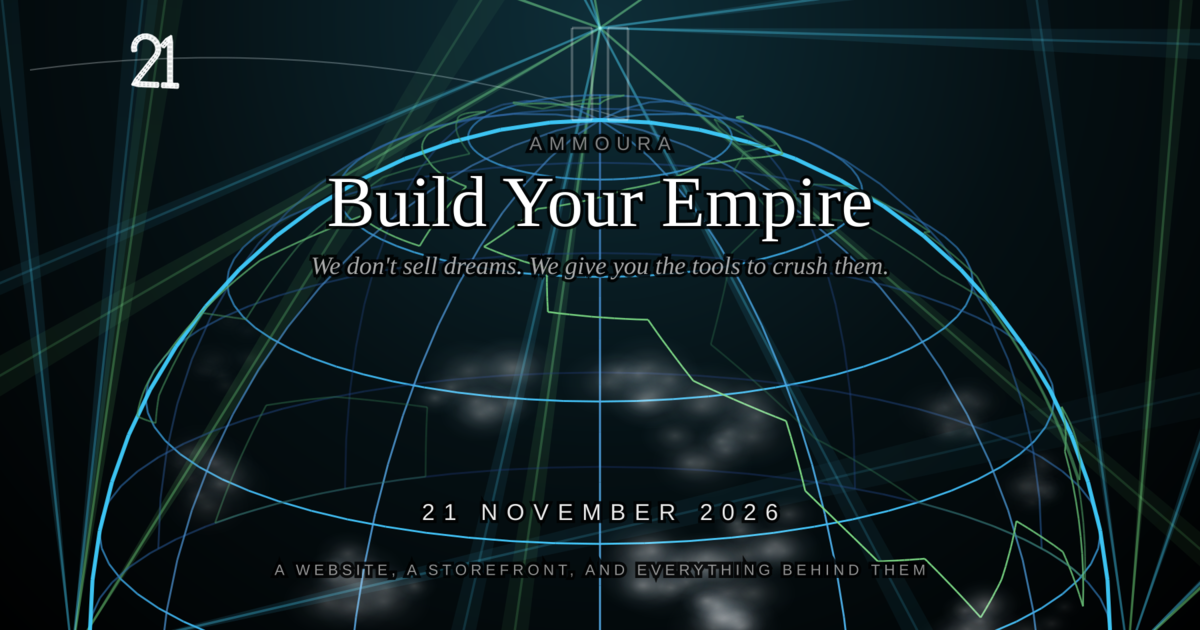
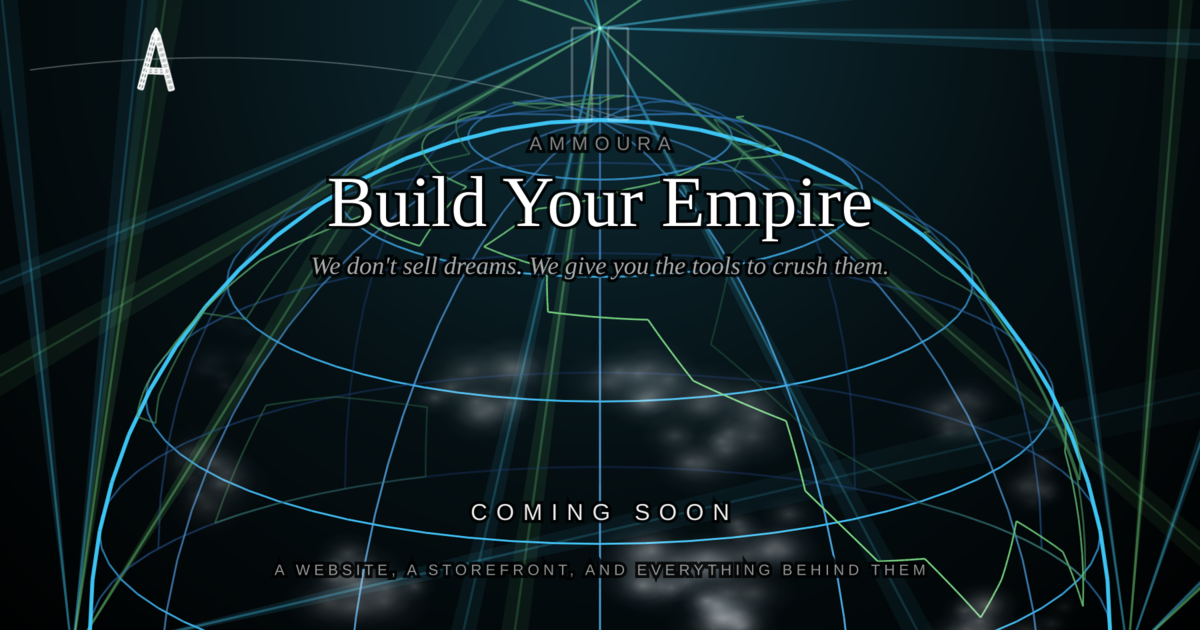
No launch date anywhere: a letter A flies the arc, the cards say Coming soon
The dark hero flew a wireframe 21; it now flies an A. The arc rests halfway
instead of following the days left. LAUNCH_ISO and LAUNCH_LABEL are gone, so
the structured data has no publish date and the alt text says Coming soon. The
share cards are regenerated and no longer carry the date.

Claude-Session: https://claude.ai/code/session_013KBq65dMSWSRGuRaC5hsZh

Changed region(s): [[0.37, 0.7841, 0.6475, 0.8444], [0.0925, 0.0302, 0.1542, 0.1508]]

diff --git a/src/routes/+page.svelte b/src/routes/+page.svelte
@@ -10,7 +10,6 @@
 		SITE_DESCRIPTION,
 		PRODUCT_DESCRIPTION,
 		CAPABILITIES,
-		LAUNCH_ISO,
 		DISCORD_URL,
 		SOCIAL_LINKS,
 		OG_IMAGE_PATH,
@@ -21,14 +20,9 @@
 		unicornRequested
 	} from '$lib/seo.js';
 
-	// The hero arc still follows the time left to LAUNCH_ISO, but nothing on the
-	// page shows a number: the page says "Coming soon".
-	const TARGET = new Date(LAUNCH_ISO).getTime();
-
 	// ── 3D Wireframe Flight ──
 	let flightCanvas = $state();
 	let taglineEl = $state();
-	const FLIGHT_START = new Date('2026-03-22T00:00:00-05:00').getTime();
 
 	// While the track is playing, the arc IS the track: the number takes off on
 	// the first note and lands on the last. Read straight off the audio element
@@ -38,14 +32,15 @@
 
 	let trackStarted = $state(false);
 
-	/** Where the arc puts the creature when nothing is playing: the real
-	    countdown, March 22 → launch. This is its post. */
-	function countdownProgress() {
-		return Math.max(0, Math.min(1, (Date.now() - FLIGHT_START) / (TARGET - FLIGHT_START)));
+	/** Where the arc puts the creature when nothing is playing: halfway along.
+	    There is no date to count to, so this is its post. */
+	const REST_PROGRESS = 0.5;
+	function restProgress() {
+		return REST_PROGRESS;
 	}
 
-	// How much of the arc the track owns: 1 while it plays, 0 when the countdown
-	// has it back. Eased rather than switched, because the two positions are a
+	// How much of the arc the track owns: 1 while it plays, 0 when the rest
+	// position has it back. Eased rather than switched, because the two positions are a
 	// long way apart — pressing play used to teleport the glyph to the start of
 	// the arc, and stopping used to teleport it back. Now it flies.
 	let flightMix = 0;
@@ -56,14 +51,14 @@
 	const FLIGHT_RETURN = 0.022;
 
 	function getFlightProgress() {
-		const countdown = countdownProgress();
+		const rest = restProgress();
 		const d = audioEl?.duration;
 		if (trackStarted && Number.isFinite(d) && d > 0) {
 			flightHeld = Math.max(0, Math.min(1, audioEl.currentTime / d));
 		}
 		const want = playing ? 1 : 0;
 		flightMix += (want - flightMix) * (want > flightMix ? FLIGHT_TAKE : FLIGHT_RETURN);
-		return countdown + (flightHeld - countdown) * flightMix;
+		return rest + (flightHeld - rest) * flightMix;
 	}
 
 	onMount(() => {
@@ -80,13 +75,11 @@
 		const ctx = flightCanvas.getContext('2d');
 		if (!ctx) return;
 
-		// 3D wireframe "21" — launch day, swept as tubes along digit centerlines.
+		// 3D wireframe "A" — Ammoura, swept as tubes along letter centerlines.
 		//
-		// It used to be a hand-built "9": a torus for the bowl and a cylinder for
-		// the tail. Two digits do not decompose that neatly, so the shape is now
-		// described the way a sign-writer would describe it — a centerline path
-		// per stroke — and one sweep turns each path into the same round tube.
-		// Moving launch day again means editing DIGITS, not the geometry.
+		// The shape is described the way a sign-writer would describe it — a
+		// centerline path per stroke — and one sweep turns each path into the same
+		// round tube. Changing the glyph means editing DIGITS, not the geometry.
 		const TWO_PI = Math.PI * 2;
 		const V3 = [];
 		const E3 = [];
@@ -96,9 +89,8 @@
 		const arcSegs = 5;      // segments per quarter-turn of a curved stroke
 		const MAX_STEP = 0.15;  // longest gap between rings, so straights get rungs too
 
-		// Two digits are wider than one, so the pair is scaled to keep roughly the
-		// ink area the old single digit had. Uniform, so the tube thins with it.
-		const GLYPH_SCALE = 0.78;
+		// Uniform scale, so the tube thins with it.
+		const GLYPH_SCALE = 0.95;
 
 		// Digit space: z is across, y is up, baseline at -0.65 and cap at 0.85.
 		// The model is flat in x — the view yaw turns z into screen-width — so a
@@ -131,25 +123,15 @@
 
 		const D = Math.PI / 180;
 
-		// "2": a bowl over the top, a diagonal down to the baseline, a flat foot.
-		// One continuous stroke — a 2 is drawn without lifting the pen. The bowl's
-		// own exit point at -40 degrees is where the diagonal starts.
-		const twoBowl = arcPts(0, 0.47, 0.38, 195 * D, -40 * D);
-		const two = [[...twoBowl, [-0.38, BASE_Y], [0.38, BASE_Y]]];
-
-		// "1": flag, stem, and a foot. The foot is a separate stroke — it crosses
-		// the stem rather than continuing it, so sweeping them as one path would
-		// put a kink at the join.
-		const one = [
-			[[-0.24, 0.56], [0, CAP_Y], [0, BASE_Y]],
-			[[-0.25, BASE_Y], [0.25, BASE_Y]],
+		// "A": two legs meeting at the apex, and a crossbar. The legs are one
+		// continuous stroke; the bar crosses them, so it is its own stroke.
+		const letterA = [
+			[[-0.4, BASE_Y], [0, CAP_Y], [0.4, BASE_Y]],
+			[[-0.21, -0.18], [0.21, -0.18]],
 		];
 
 		// Laid out left to right by box width, then centred on z = 0.
-		const DIGITS = [
-			{ strokes: two, halfW: 0.38 },
-			{ strokes: one, halfW: 0.25 },
-		];
+		const DIGITS = [{ strokes: letterA, halfW: 0.4 }];
 		const DIGIT_GAP = 0.12;
 
 		/**
@@ -211,12 +193,12 @@
 			for (const v of V3) { v[0] *= GLYPH_SCALE; v[1] *= GLYPH_SCALE; v[2] *= GLYPH_SCALE; }
 		}
 
-		// The unicorn — what flies the arc in the light theme, where the launch
-		// date flies it in the dark one.
+		// The unicorn — what flies the arc in the light theme, where the letter
+		// A flies it in the dark one.
 		//
 		// It is described exactly the way the digits are: centreline strokes in
 		// the same zy plane, through the same tube sweep. That is the whole reason
-		// the "21" was rebuilt as paths rather than hand-assembled solids — a
+		// the glyph was built as paths rather than hand-assembled solids — a
 		// sign-writer's description of a shape does not care whether the shape is
 		// a numeral. Facing +z, which the view yaw turns into screen-right, so the
 		// unicorn faces along its own direction of travel down the arc.
@@ -533,7 +515,7 @@
 		// white line on it is an invisible line; the pink edge is what holds the
 		// shape, and the white is what makes the shape read as white.
 		//
-		// Light theme only: the dark theme flies the "21" and never asks for these.
+		// Light theme only: the dark theme flies the "A" and never asks for these.
 		const UNICORN_PAINT = {
 			tail:    [['rgba(226,74,150,0.40)', 1.5], ['rgba(255,152,201,0.95)', 0.68]],
 			mane:    [['rgba(226,74,150,0.44)', 1.5], ['rgba(255,158,205,0.98)', 0.68]],
@@ -599,7 +581,7 @@
 		// the near side at the bright end, so the body has real colour range
 		// across its own width instead of one flat tint fading out.
 
-		// One revolution, in milliseconds. Slow on purpose: the countdown is what
+		// One revolution, in milliseconds. Slow on purpose: the globe is what
 		// the eye is meant to land on, and a fast globe steals it.
 		const GLOBE_SPIN_MS = 90000;
 
@@ -996,7 +978,7 @@
 
 			// Arc endpoint = the bottom-right corner of the tower pair, where the
 			// two towers stand on the planet. It used to be a third of the way
-			// down the right tower, which left the 21 landing in mid-air against
+			// down the right tower, which left the glyph landing in mid-air against
 			// the side of the "11"; the foot of the pair is where a flight path
 			// actually terminates.
 			const endX = baseX + towerGap / 2 + towerW; // right edge of right tower
@@ -1423,7 +1405,7 @@
 				ctx.strokeRect(tx2, towerBaseY - towerH, towerW, towerH);
 			}
 
-			// 3D "21" orientation: aligns with path tangent
+			// 3D glyph orientation: aligns with path tangent
 			const tan = bzd(t, P0, P1, P2);
 			const tangentAngle = Math.atan2(tan[1], tan[0]);
 			const bob = Math.sin(Date.now() * 0.0015) * 0.04;
@@ -1569,8 +1551,8 @@
 	// alone told a search result nothing, and the slogan already owns the page.
 	const siteTitle = 'Ammoura — Website and Online Store Builder';
 
-	// The launch is a real dated event and the page counts down to it, so it is
-	// worth describing to a crawler rather than leaving as decoration.
+	// Describe the product and its maker to a crawler rather than leaving them
+	// as decoration.
 	const launchSchema = [
 		{
 			'@type': 'Organization',
@@ -1594,8 +1576,7 @@
 			url: SITE_URL + '/',
 			image: SITE_URL + OG_IMAGE_PATH,
 			featureList: CAPABILITIES,
-			publisher: { '@id': SITE_URL + '/#organization' },
-			datePublished: LAUNCH_ISO
+			publisher: { '@id': SITE_URL + '/#organization' }
 		}
 	];
 
@@ -1606,7 +1587,7 @@
 	// BIRTH is track 1 of Ammoura.me, and its album route is "/" — this page.
 	// ── Theme ──
 	// Dark is the teaser. Light is the other side of the joke: a pastel sky, a
-	// unicorn flying the arc the launch date flew, and a candy mountain standing
+	// unicorn flying the arc the letter A flies, and a candy mountain standing
 	// where the towers stood.
 	//
 	// It does NOT follow prefers-color-scheme. Swapping a launch teaser's hero
@@ -1786,7 +1767,7 @@
 
 	// ── The rig ──
 	// Concert lighting, hung off the towers and pointed at everything. A single
-	// smoothed loudness was enough to make the 21 bob; it is nowhere near enough
+	// smoothed loudness was enough to make the glyph bob; it is nowhere near enough
 	// to run a light show, because a show is made of *events* — a kick lands, the
 	// colour changes, the beams snap somewhere new. So the rig runs its own onset
 	// detection, per band, and the fixtures are driven by hits rather than by a
@@ -1999,7 +1980,7 @@
 		if (audioCtx?.state === 'suspended') audioCtx.resume();
 	}
 
-	// Paused mid-track. The arc goes back to the countdown either way — stopping
+	// Paused mid-track. The arc goes back to its rest position either way — stopping
 	// the music puts the creature back on its post — and getFlightProgress eases
 	// the handover, so this only has to say the track is no longer playing.
 	function onPause() {

diff --git a/src/lib/seo.js b/src/lib/seo.js
@@ -10,18 +10,6 @@
 export const SITE_NAME = 'Ammoura';
 export const SITE_URL = 'https://ammoura.me';
 
-/**
- * Public launch: 21 November 2026, 19:00 MST — doors at State Farm Stadium in
- * Glendale, Arizona. The moment the page counts down to and the date a crawler
- * is told the software was published, so it is declared once here and imported
- * everywhere else.
- *
- * The offset is -07:00 and stays -07:00: Arizona does not observe daylight
- * time, so unlike the Eastern dates this sat on before, the wall clock and the
- * offset cannot drift apart whatever month the date moves to.
- */
-export const LAUNCH_ISO = '2026-11-21T19:00:00-07:00';
-
 export const DISCORD_URL = 'https://discord.gg/dPRvKFS9dq';
 
 /**
@@ -104,22 +92,7 @@ export const CAPABILITIES = [
 export const OG_IMAGE_PATH = '/og.png';
 export const OG_IMAGE_WIDTH = 1200;
 export const OG_IMAGE_HEIGHT = 630;
-/**
- * Launch day as words, in the launch's own timezone.
- *
- * Arizona rather than the reader's zone: the card and the alt text should name
- * the date the countdown actually ends on, which is fixed, not the date it is
- * where the reader happens to be sitting. Derived rather than written out so it
- * cannot drift from LAUNCH_ISO the way a second copy would.
- */
-export const LAUNCH_LABEL = new Intl.DateTimeFormat('en-GB', {
-	day: 'numeric',
-	month: 'long',
-	year: 'numeric',
-	timeZone: 'America/Phoenix'
-}).format(new Date(LAUNCH_ISO));
-
-export const OG_IMAGE_ALT = `Ammoura — Build Your Empire. Launching ${LAUNCH_LABEL}.`;
+export const OG_IMAGE_ALT = `Ammoura — Build Your Empire. Coming soon.`;
 export const OG_IMAGE_TYPE = 'image/png';
 
 /**
@@ -131,7 +104,7 @@ export const OG_IMAGE_TYPE = 'image/png';
  */
 export const OG_IMAGE_UNICORN_PATH = '/og-unicorn.png';
 export const OG_IMAGE_UNICORN_ALT =
-	`Ammoura — Build Your Empire. A unicorn over a candy mountain. Launching ${LAUNCH_LABEL}.`;
+	`Ammoura — Build Your Empire. A unicorn over a candy mountain. Coming soon.`;
 
 /**
  * The query parameter that overrides the stored theme.

diff --git a/src/routes/+layout.svelte b/src/routes/+layout.svelte
@@ -34,7 +34,7 @@
 
 	/* ── Themes ──
 	   Two of them, and they are not the same page in two palettes. Dark is the
-	   teaser: black, a wireframe planet, a launch date flying in on an arc.
+	   teaser: black, a wireframe planet, a wireframe letter A flying in on an arc.
 	   Light is the other side of the same joke — a pastel sky, a unicorn where
 	   the date was, and a candy mountain where the towers were.
 

diff --git a/src/routes/(legal)/terms/+page.svelte b/src/routes/(legal)/terms/+page.svelte
@@ -28,7 +28,7 @@
 	particular features, at any particular price, or at all.
 </p>
 <p>
-	Any dates, countdowns or descriptions on this page reflect what we intend today. Plans change.
+	Any dates or descriptions on this page reflect what we intend today. Plans change.
 	Do not make commitments of your own in reliance on them.
 </p>
 
